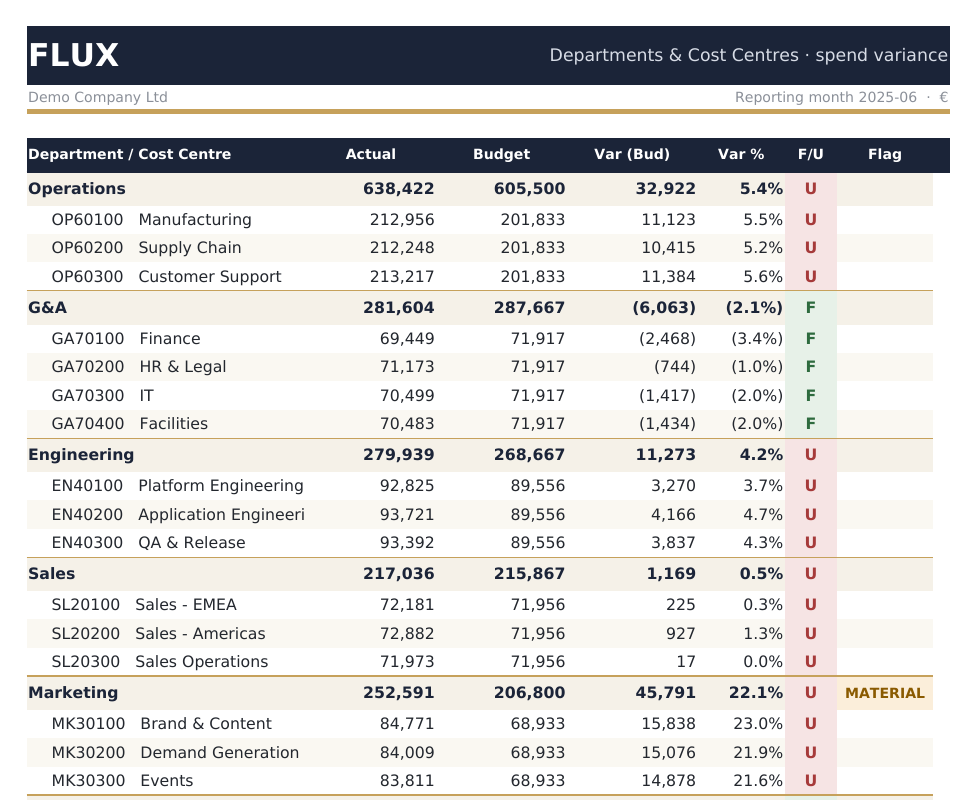
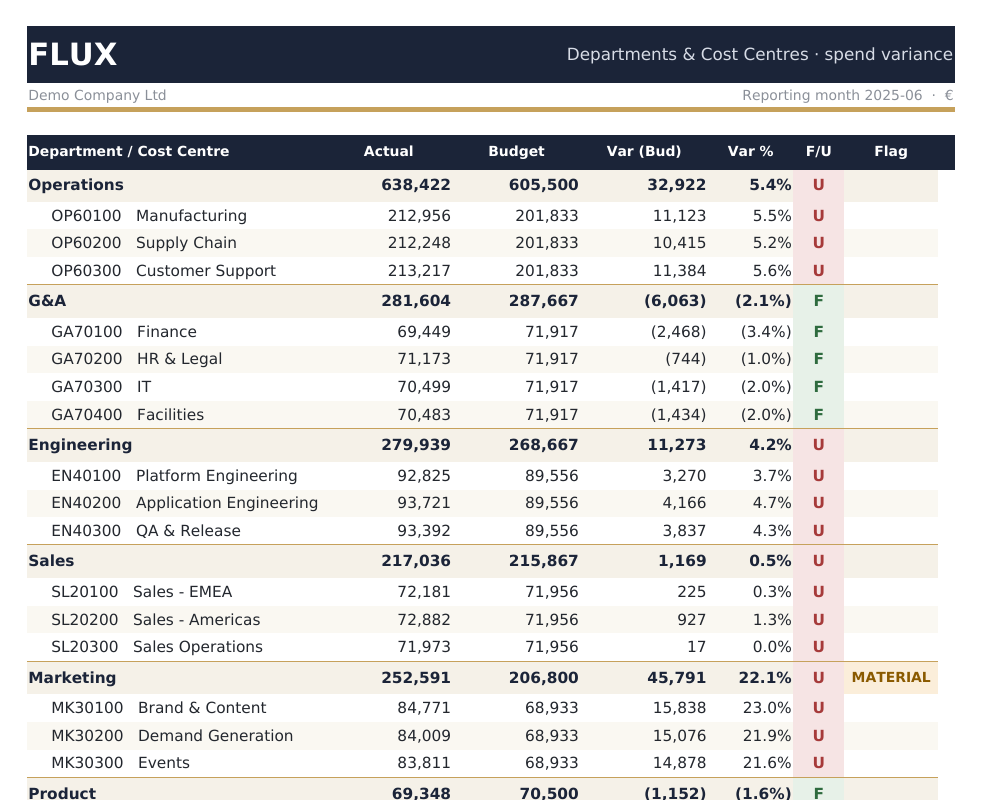
Size text columns to their content so long account names stop clipping

Changed region(s): [[0.0307, 0.0312, 0.9836, 1.0]]

diff --git a/src/flux/reporting/demo_pack.py b/src/flux/reporting/demo_pack.py
@@ -39,7 +39,7 @@ from .styling import (
     CUR, CUR2, CUR_EUR, CUR2_EUR, PCT, RATE, KPI_DELTA, LCY_FORMATS,
     CENTER, LEFT, RIGHT, WRAP, indent, band_fill,
     GOLD_SIDE, HEADER_BOTTOM, SUBTOTAL_TOP, TOTAL_TOP,
-    hide_grid, title_band, headers, widths, outline, badge_cf, wrapped_height,
+    hide_grid, title_band, headers, widths, outline, badge_cf, wrapped_height, fit_text_columns,
     named_style,
     quiet_indicators, collect_quiet_ranges, suppress_error_indicators,
 )
@@ -200,6 +200,10 @@ def _write_source_sheet(ws, df, spec, title, meta, footnote) -> tuple[int, int]:
             cell.style = style_for(fmt, banded, str(row.get("currency", "EUR")))
         ws.row_dimensions[r].height = 14
     last = first + len(df) - 1
+
+    text_cols = [get_column_letter(i) for i, (_k, _h, _w, fmt) in enumerate(spec, start=1)
+                 if fmt not in numeric]
+    fit_text_columns(ws, text_cols, first, last)
 
     ws.cell(row=last + 2, column=1, value=footnote).font = F_NOTE
     quiet_indicators(ws, 5, last)
@@ -420,6 +424,7 @@ def _write_expense_report(ws, gl, glf, gll, bud, budf, budl, period) -> None:
                   "financing items. Bold rows are group subtotals.").font = F_NOTE
 
     widths(ws, [28, 13, 13, 12, 8, 13, 13, 12, 8, 14, 8, 11])
+    fit_text_columns(ws, ["A"], first, r)
     quiet_indicators(ws, 5, last + 2)
     ws.freeze_panes = f"B{first}"
 
@@ -565,6 +570,7 @@ def _write_cost_centres(ws, dept_var, gl, glf, gll, bud, budf, budl, period) -> 
                   "only. Revenue is excluded: this is a spend view.").font = F_NOTE
 
     widths(ws, [32, 15, 15, 15, 10, 6, 11, 2])
+    fit_text_columns(ws, ["A"], first, r)
     quiet_indicators(ws, 5, last + 3)
     ws.freeze_panes = f"A{first}"
 
@@ -612,6 +618,7 @@ def _write_drivers(ws, agg, gl, glf, gll, bud, budf, budl, period) -> None:
         DataBarRule(start_type="min", end_type="max", color=BAR, showValue=True))
     badge_cf(ws, f"H{first}:H{last}", f"I{first}:I{last}")
     widths(ws, [12, 30, 12, 15, 15, 15, 10, 6, 11])
+    fit_text_columns(ws, ["B", "C"], first, last)
     quiet_indicators(ws, 5, last)
     ws.freeze_panes = f"A{first}"
 

diff --git a/src/flux/reporting/styling.py b/src/flux/reporting/styling.py
@@ -202,6 +202,28 @@ def widths(ws, values, start=1) -> None:
         ws.column_dimensions[get_column_letter(c)].width = w
 
 
+def fit_text_columns(ws, letters, first_row, last_row, *, pad=2.0,
+                     max_width=40.0) -> None:
+    """Widen text columns to the longest label they actually hold.
+
+    Excel clips a string at the cell edge whenever the neighbouring cell is
+    occupied, so a name column sized by guesswork silently truncates the longest
+    account names. Measuring the content is the only way to be right for a chart
+    of accounts nobody has seen yet; the cap stops one outlier stretching a
+    column across the sheet.
+    """
+    for letter in letters:
+        longest = 0
+        for row in range(first_row, last_row + 1):
+            value = ws[f"{letter}{row}"].value
+            if isinstance(value, str) and not value.startswith("="):
+                longest = max(longest, len(value))
+        if longest:
+            current = ws.column_dimensions[letter].width or 8.43
+            ws.column_dimensions[letter].width = min(
+                max_width, max(current, longest + pad))
+
+
 def outline(ws, r1, c1, r2, c2, side=GOLD_SIDE) -> None:
     """Draw a border around a rectangular range without clearing inner edges."""
     for r in range(r1, r2 + 1):

diff --git a/src/flux/reporting/client_pack.py b/src/flux/reporting/client_pack.py
@@ -35,6 +35,7 @@ from .styling import (
     CENTER, LEFT, RIGHT, WRAP, indent, band_fill,
     GOLD_SIDE, SUBTOTAL_TOP, TOTAL_TOP,
     hide_grid, title_band, headers, widths, outline, badge_cf, note, wrapped_height,
+    fit_text_columns,
     quiet_indicators, collect_quiet_ranges, suppress_error_indicators,
 )
 from .formulas import (
@@ -560,6 +561,7 @@ def _departments(ws, hierarchy, gl, glf, gll, L, period, has_cc, var, perno=None
             value="Departments are roll-ups; cost centres are indented beneath them. "
                   "Revenue is excluded: this is a spend view.").font = F_NOTE
     widths(ws, [32, 15, 15, 15, 10, 6, 11, 2])
+    fit_text_columns(ws, ["A"], first, r)
     quiet_indicators(ws, 5, last + 3)
     ws.freeze_panes = f"A{first}"
 
@@ -615,6 +617,7 @@ def _drivers(ws, agg, gl, glf, gll, L, period, var, perno=None):
         DataBarRule(start_type="min", end_type="max", color=BAR, showValue=True))
     badge_cf(ws, f"H{first}:H{last}", f"I{first}:I{last}")
     widths(ws, [12, 30, 12, 15, 15, 15, 10, 6, 11])
+    fit_text_columns(ws, ["B", "C"], first, last)
     quiet_indicators(ws, 5, last)
     ws.freeze_panes = f"A{first}"
 
